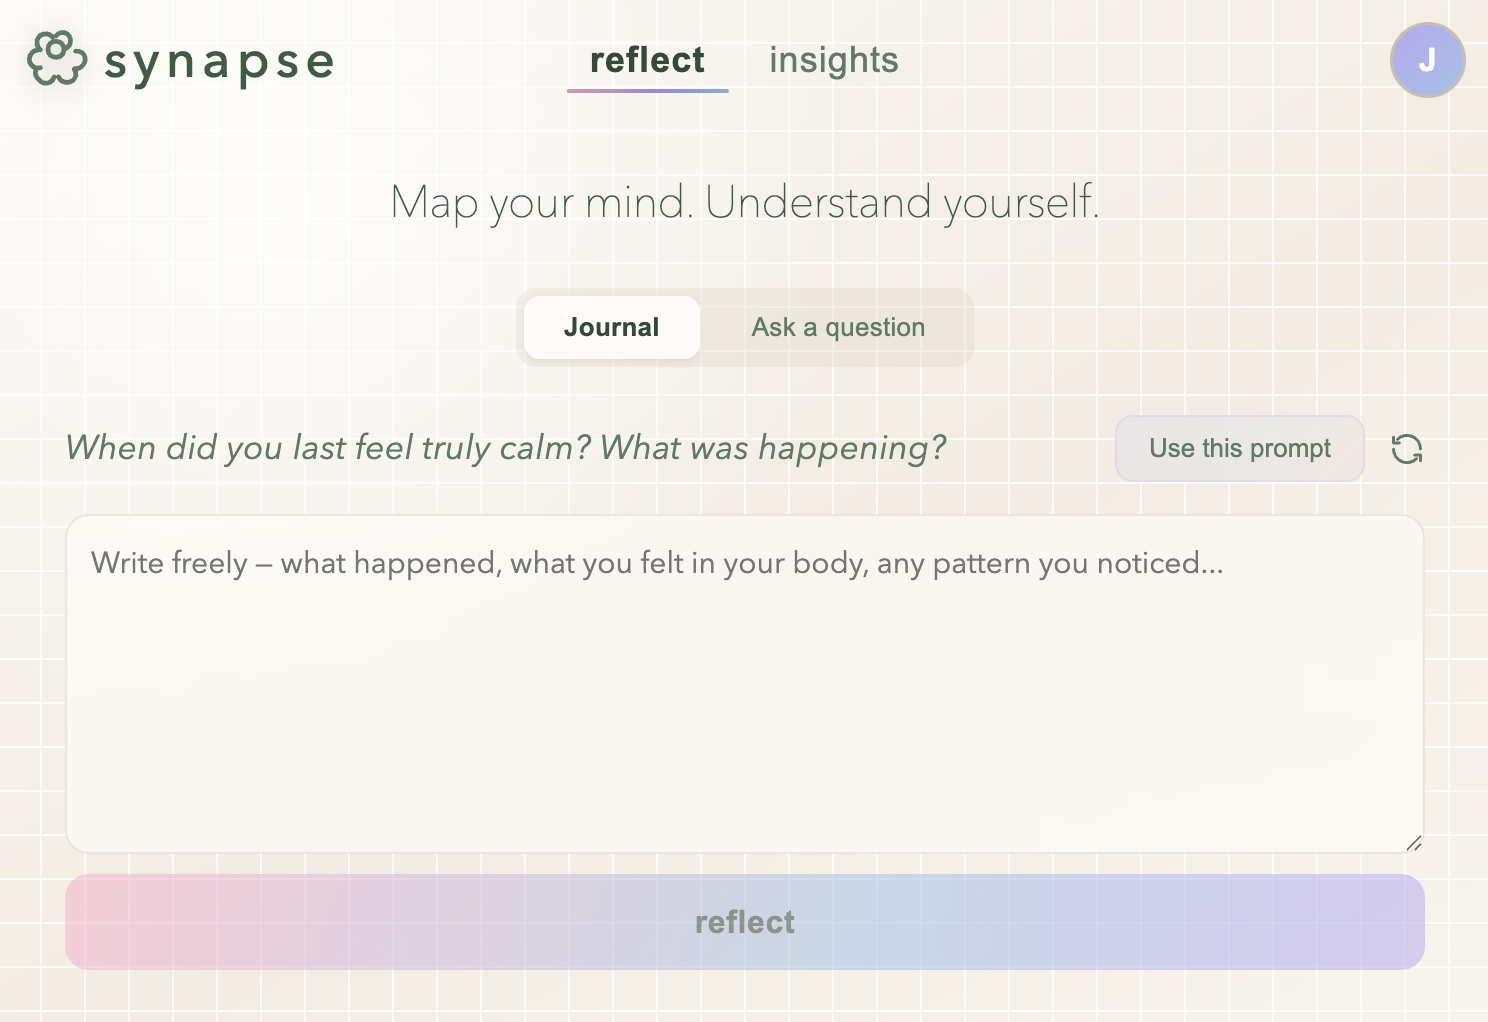
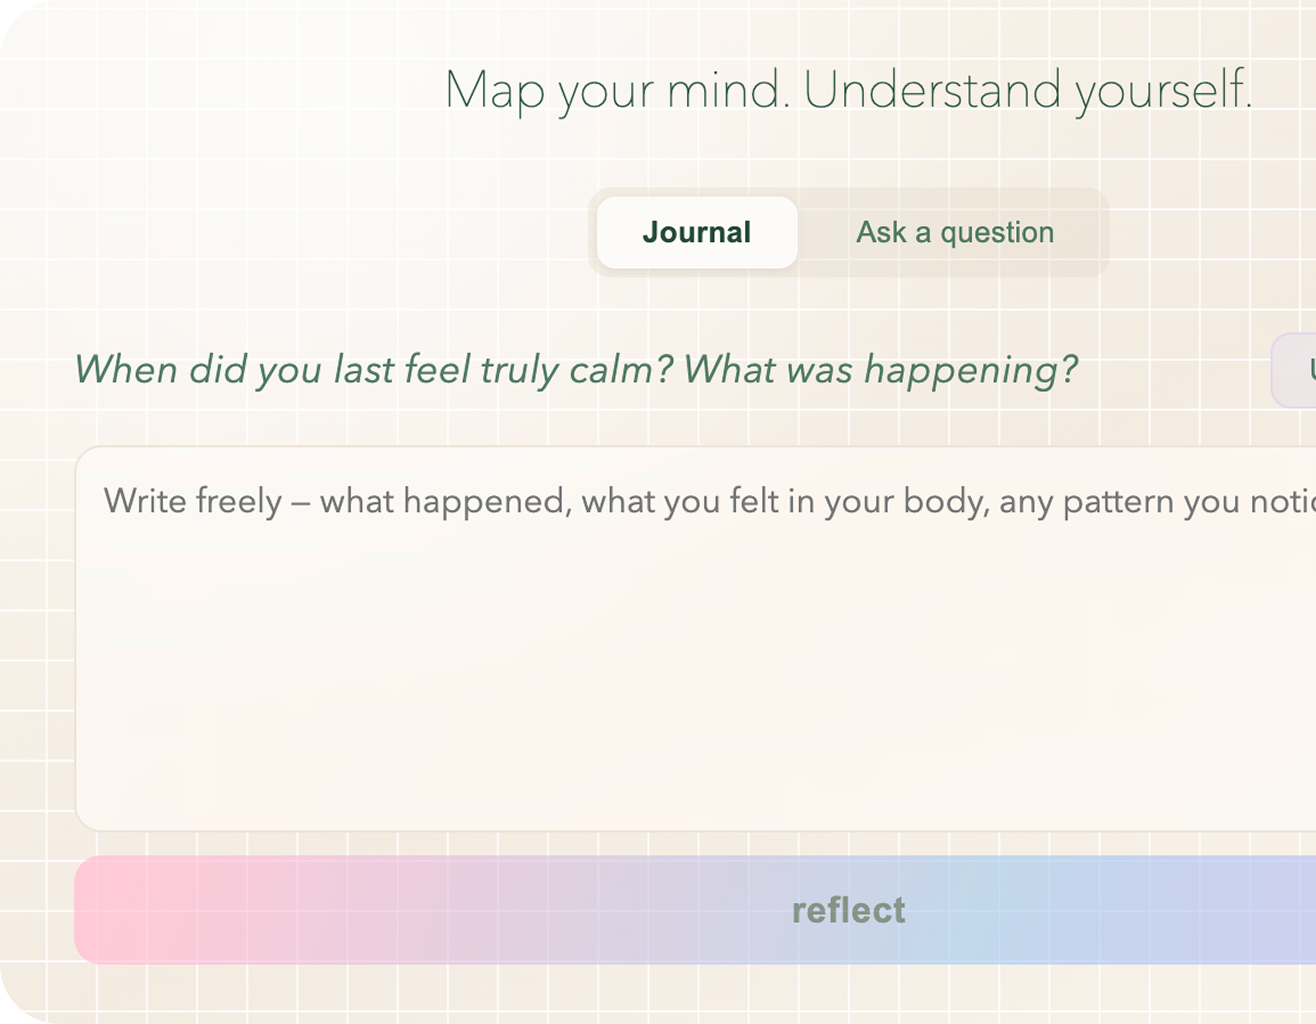
Refine the /synapse card product visual: new tighter crop, cut off at the right edge
Swap synapse-product.png to the tighter Map-your-mind crop and position it
right-[-12%] top-[55%] h-[53%] so it sits a little above centre, ~53% tall, and
bleeds off / is cut by the card's right edge (matching the Figma) instead of
floating with a gap. (Blob colour tweak to #C24F83 -> #734A8E included.)

diff --git a/components/sections/prototype/VariantBentoSoft.tsx b/components/sections/prototype/VariantBentoSoft.tsx
@@ -115,11 +115,11 @@ export function VariantBentoSoft() {
                 subtitle={p.description}
                 tags={p.tags}
                 image={{
-                  src: "/assets/synapse-product.png",
+                  src: "/assets/synapse-product.png?v=3",
                   alt: "synapse reflection agent — map your mind journaling view",
                 }}
-                imageClassName="pointer-events-none absolute right-[-16%] top-1/2 h-[58%] w-auto -translate-y-1/2 rounded-2xl object-contain shadow-[0_20px_60px_rgba(0,0,0,0.45)]"
-                blob={{ core: "#C24E86", edge: "#6D1B76", coreStop: 8, edgeStop: 52 }}
+                imageClassName="pointer-events-none absolute right-[-12%] top-[55%] h-[53%] w-auto max-w-none -translate-y-1/2 rounded-2xl object-contain shadow-[0_20px_60px_rgba(0,0,0,0.45)]"
+                blob={{ core: "#C24F83", edge: "#734A8E", coreStop: 8, edgeStop: 52 }}
               />
             );
           }